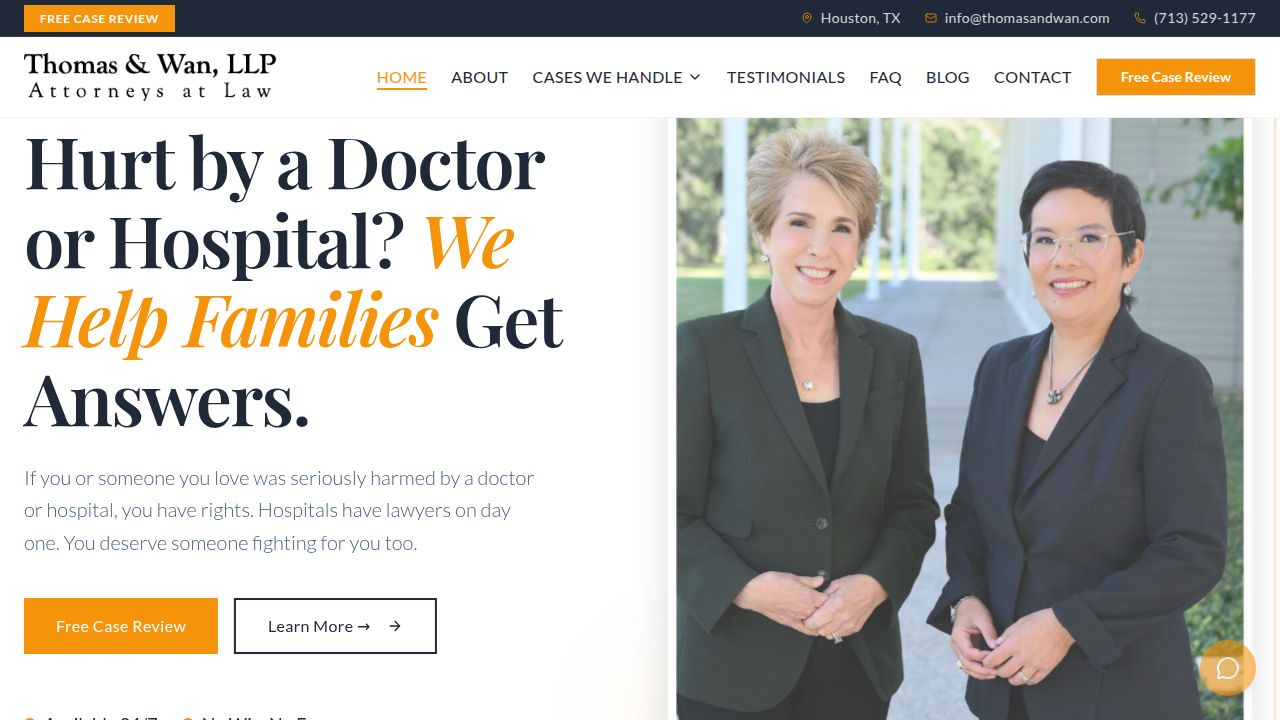
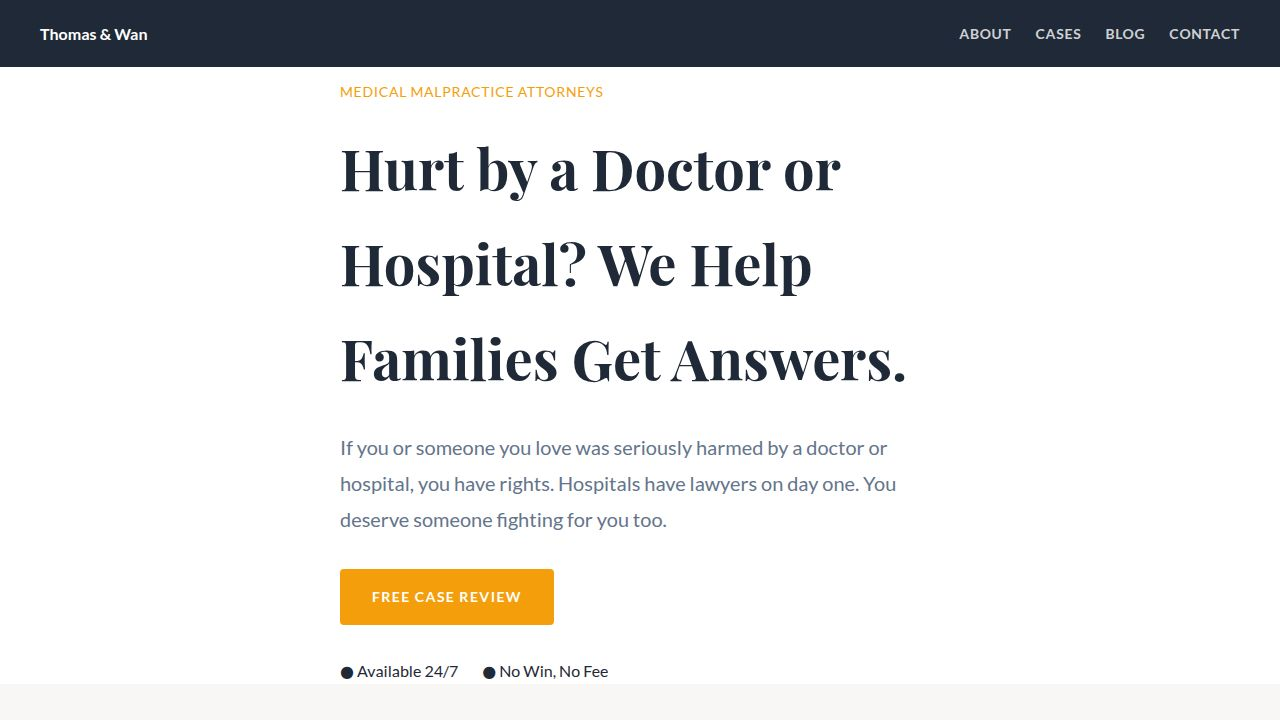
Make full website content visible to all visitors
Remove bot detection and always serve server-side rendered HTML content to all users by modifying routes in server/routes.ts.

Replit-Commit-Author: Agent
Replit-Commit-Session-Id: adcb611e-6b1d-473a-95ac-027d9af14e4f
Replit-Commit-Checkpoint-Type: intermediate_checkpoint
Replit-Commit-Event-Id: 5233f11b-6ef5-412d-b448-dacdfdae9307
Replit-Commit-Screenshot-Url: https://storage.googleapis.com/screenshot-production-us-central1/c2cc1403-2177-4233-8c7d-12b18c71f9fa/adcb611e-6b1d-473a-95ac-027d9af14e4f/wsrrGnI
Replit-Helium-Checkpoint-Created: true

diff --git a/server/routes.ts b/server/routes.ts
@@ -44,17 +44,6 @@ import { eq } from "drizzle-orm";
 import { getPostBySlug, getPageBySlug, purgeAndWarm, getCacheStats, purgeAllCache } from "./wp-content";
 import { getHomepageFields, getAboutFields, getPracticeAreaFields, purgeCmsCache } from "./wp-graphql";
 
-// Detect search engine crawlers for SSR
-function isBot(userAgent: string): boolean {
-  const bots = [
-    'googlebot', 'bingbot', 'yandexbot', 'duckduckbot', 'slurp', 
-    'baiduspider', 'facebookexternalhit', 'twitterbot', 'linkedinbot',
-    'whatsapp', 'telegram', 'applebot', 'pinterest', 'semrushbot',
-    'ahrefsbot', 'mj12bot', 'dotbot', 'petalbot', 'bytespider'
-  ];
-  const ua = userAgent.toLowerCase();
-  return bots.some(bot => ua.includes(bot));
-}
 
 export async function registerRoutes(
   httpServer: Server,
@@ -841,140 +830,79 @@ Sitemap: https://thomasandwan.com/sitemap.xml`;
     }
   });
 
-  // SSR Routes - serve to bots only, regular users get React app
-  // Add ?ssr=true to force SSR for testing
+  // SSR Routes - serve full HTML content to all visitors
   app.get("/", async (req: Request, res: Response, next: Function) => {
-    const ua = req.headers['user-agent'] || '';
-    const forceSSR = req.query.ssr === 'true';
-    if (!forceSSR && !isBot(ua)) return next();
     res.setHeader("Content-Type", "text/html");
     res.send(await renderHomepage());
   });
 
-  // Add ?ssr=true to force SSR for testing
   app.get("/about-thomas-wan-llp", async (req: Request, res: Response, next: Function) => {
-    const ua = req.headers['user-agent'] || '';
-    const forceSSR = req.query.ssr === 'true';
-    if (!forceSSR && !isBot(ua)) return next();
     res.setHeader("Content-Type", "text/html");
     res.send(await renderAbout());
   });
 
-  // Add ?ssr=true to force SSR for testing
   app.get("/contact-us", async (req: Request, res: Response, next: Function) => {
-    const ua = req.headers['user-agent'] || '';
-    const forceSSR = req.query.ssr === 'true';
-    if (!forceSSR && !isBot(ua)) return next();
     res.setHeader("Content-Type", "text/html");
     res.send(await renderContact());
   });
 
-  // Add ?ssr=true to force SSR for testing
   app.get("/faq", async (req: Request, res: Response, next: Function) => {
-    const ua = req.headers['user-agent'] || '';
-    const forceSSR = req.query.ssr === 'true';
-    if (!forceSSR && !isBot(ua)) return next();
     res.setHeader("Content-Type", "text/html");
     res.send(await renderFAQ());
   });
 
-  // Add ?ssr=true to force SSR for testing
   app.get("/testimonials", async (req: Request, res: Response, next: Function) => {
-    const ua = req.headers['user-agent'] || '';
-    const forceSSR = req.query.ssr === 'true';
-    if (!forceSSR && !isBot(ua)) return next();
     res.setHeader("Content-Type", "text/html");
     res.send(await renderTestimonials());
   });
 
-  // Add ?ssr=true to force SSR for testing
   app.get("/blog", async (req: Request, res: Response, next: Function) => {
-    const ua = req.headers['user-agent'] || '';
-    const forceSSR = req.query.ssr === 'true';
-    if (!forceSSR && !isBot(ua)) return next();
     res.setHeader("Content-Type", "text/html");
     res.send(await renderBlogIndex());
   });
 
-  // Add ?ssr=true to force SSR for testing
   app.get("/cases-we-handle", async (req: Request, res: Response, next: Function) => {
-    const ua = req.headers['user-agent'] || '';
-    const forceSSR = req.query.ssr === 'true';
-    if (!forceSSR && !isBot(ua)) return next();
     res.setHeader("Content-Type", "text/html");
     res.send(await renderCases());
   });
 
-  // Add ?ssr=true to force SSR for testing
   app.get("/cases-we-handle/medical-malpractice", async (req: Request, res: Response, next: Function) => {
-    const ua = req.headers['user-agent'] || '';
-    const forceSSR = req.query.ssr === 'true';
-    if (!forceSSR && !isBot(ua)) return next();
     res.setHeader("Content-Type", "text/html");
     res.send(await renderMedicalMalpractice());
   });
 
-  // Add ?ssr=true to force SSR for testing
   app.get("/cases-we-handle/birth-injuries", async (req: Request, res: Response, next: Function) => {
-    const ua = req.headers['user-agent'] || '';
-    const forceSSR = req.query.ssr === 'true';
-    if (!forceSSR && !isBot(ua)) return next();
     res.setHeader("Content-Type", "text/html");
     res.send(await renderBirthInjuries());
   });
 
-  // Add ?ssr=true to force SSR for testing
   app.get("/cases-we-handle/complications-of-childbirth", async (req: Request, res: Response, next: Function) => {
-    const ua = req.headers['user-agent'] || '';
-    const forceSSR = req.query.ssr === 'true';
-    if (!forceSSR && !isBot(ua)) return next();
     res.setHeader("Content-Type", "text/html");
     res.send(await renderComplicationsOfChildbirth());
   });
 
-  // Add ?ssr=true to force SSR for testing
   app.get("/cases-we-handle/brain-injuries", async (req: Request, res: Response, next: Function) => {
-    const ua = req.headers['user-agent'] || '';
-    const forceSSR = req.query.ssr === 'true';
-    if (!forceSSR && !isBot(ua)) return next();
     res.setHeader("Content-Type", "text/html");
     res.send(await renderBrainInjuries());
   });
 
-  // Add ?ssr=true to force SSR for testing
   app.get("/cases-we-handle/surgical-errors", async (req: Request, res: Response, next: Function) => {
-    const ua = req.headers['user-agent'] || '';
-    const forceSSR = req.query.ssr === 'true';
-    if (!forceSSR && !isBot(ua)) return next();
     res.setHeader("Content-Type", "text/html");
     res.send(await renderSurgicalErrors());
   });
 
-  // Add ?ssr=true to force SSR for testing
   app.get("/cases-we-handle/medication-errors", async (req: Request, res: Response, next: Function) => {
-    const ua = req.headers['user-agent'] || '';
-    const forceSSR = req.query.ssr === 'true';
-    if (!forceSSR && !isBot(ua)) return next();
     res.setHeader("Content-Type", "text/html");
     res.send(await renderMedicationErrors());
   });
 
-  // Add ?ssr=true to force SSR for testing
   app.get("/cases-we-handle/misdiagnosis", async (req: Request, res: Response, next: Function) => {
-    const ua = req.headers['user-agent'] || '';
-    const forceSSR = req.query.ssr === 'true';
-    if (!forceSSR && !isBot(ua)) return next();
     res.setHeader("Content-Type", "text/html");
     res.send(await renderMisdiagnosis());
   });
 
-  // Add ?ssr=true to force SSR for testing
   app.get("/author/:slug", async (req: Request, res: Response, next: Function) => {
     try {
-      const ua = req.headers['user-agent'] || '';
-      const forceSSR = req.query.ssr === 'true';
-      if (!forceSSR && !isBot(ua)) return next();
-      
       const slug = req.params.slug as string;
       const html = await renderAuthorPage(slug);
       if (!html) return next();
@@ -987,13 +915,8 @@ Sitemap: https://thomasandwan.com/sitemap.xml`;
     }
   });
 
-  // Add ?ssr=true to force SSR for testing
   app.get("/category/:slug", async (req: Request, res: Response, next: Function) => {
     try {
-      const ua = req.headers['user-agent'] || '';
-      const forceSSR = req.query.ssr === 'true';
-      if (!forceSSR && !isBot(ua)) return next();
-      
       const slug = req.params.slug as string;
       const html = await renderCategoryPage(slug);
       if (!html) return next();
@@ -1007,13 +930,8 @@ Sitemap: https://thomasandwan.com/sitemap.xml`;
   });
 
   // Blog post SSR route - /blog/:slug path
-  // Add ?ssr=true to force SSR for testing
   app.get("/blog/:slug", async (req: Request, res: Response, next: Function) => {
     try {
-      const ua = req.headers['user-agent'] || '';
-      const forceSSR = req.query.ssr === 'true';
-      if (!forceSSR && !isBot(ua)) return next();
-      
       const slug = req.params.slug as string;
       const html = await renderBlogPost(slug);
       if (!html) return next();
@@ -1026,12 +944,9 @@ Sitemap: https://thomasandwan.com/sitemap.xml`;
     }
   });
 
-  // Dynamic blog post route - SSR for blog posts at root level (bots get full SSR, users get React)
+  // Dynamic blog post route - SSR for blog posts at root level
   app.get("/:slug", async (req: Request, res: Response, next: Function) => {
     try {
-      const ua = req.headers['user-agent'] || '';
-      if (!isBot(ua)) return next();
-      
       const slug = req.params.slug as string;
       
       if (slug.includes('.') || ['api', 'assets', 'src', 'node_modules'].includes(slug)) {
